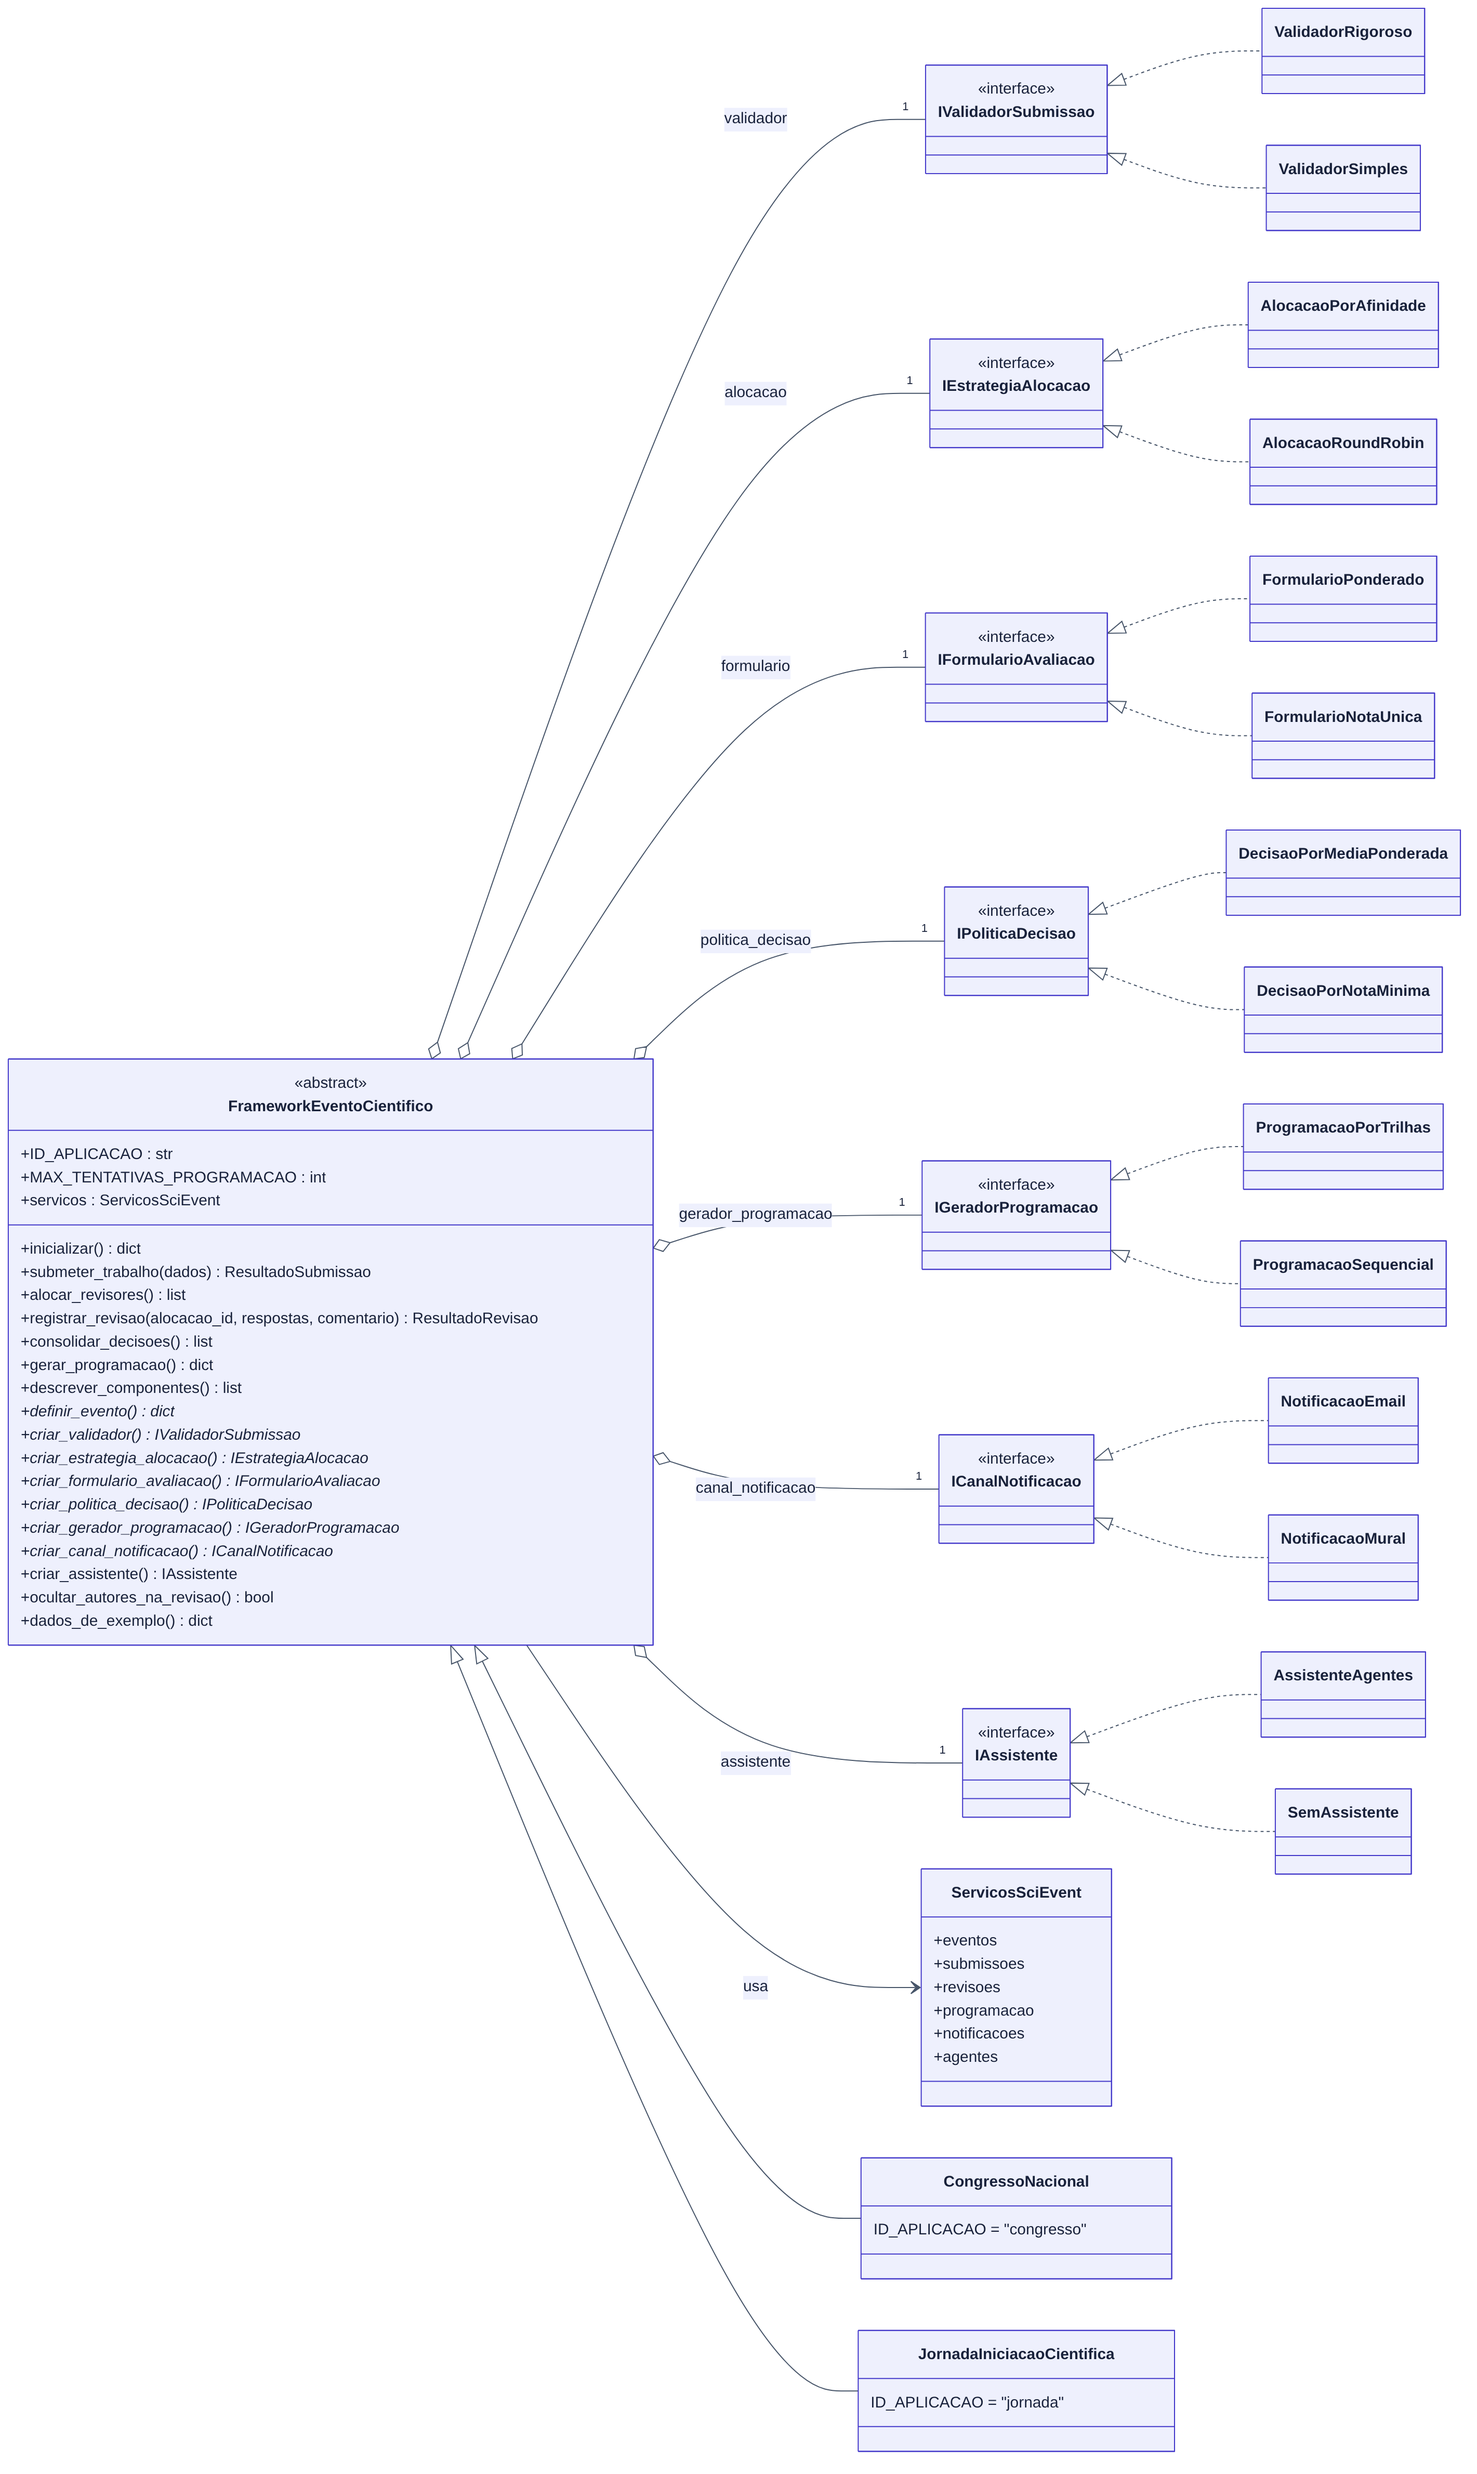
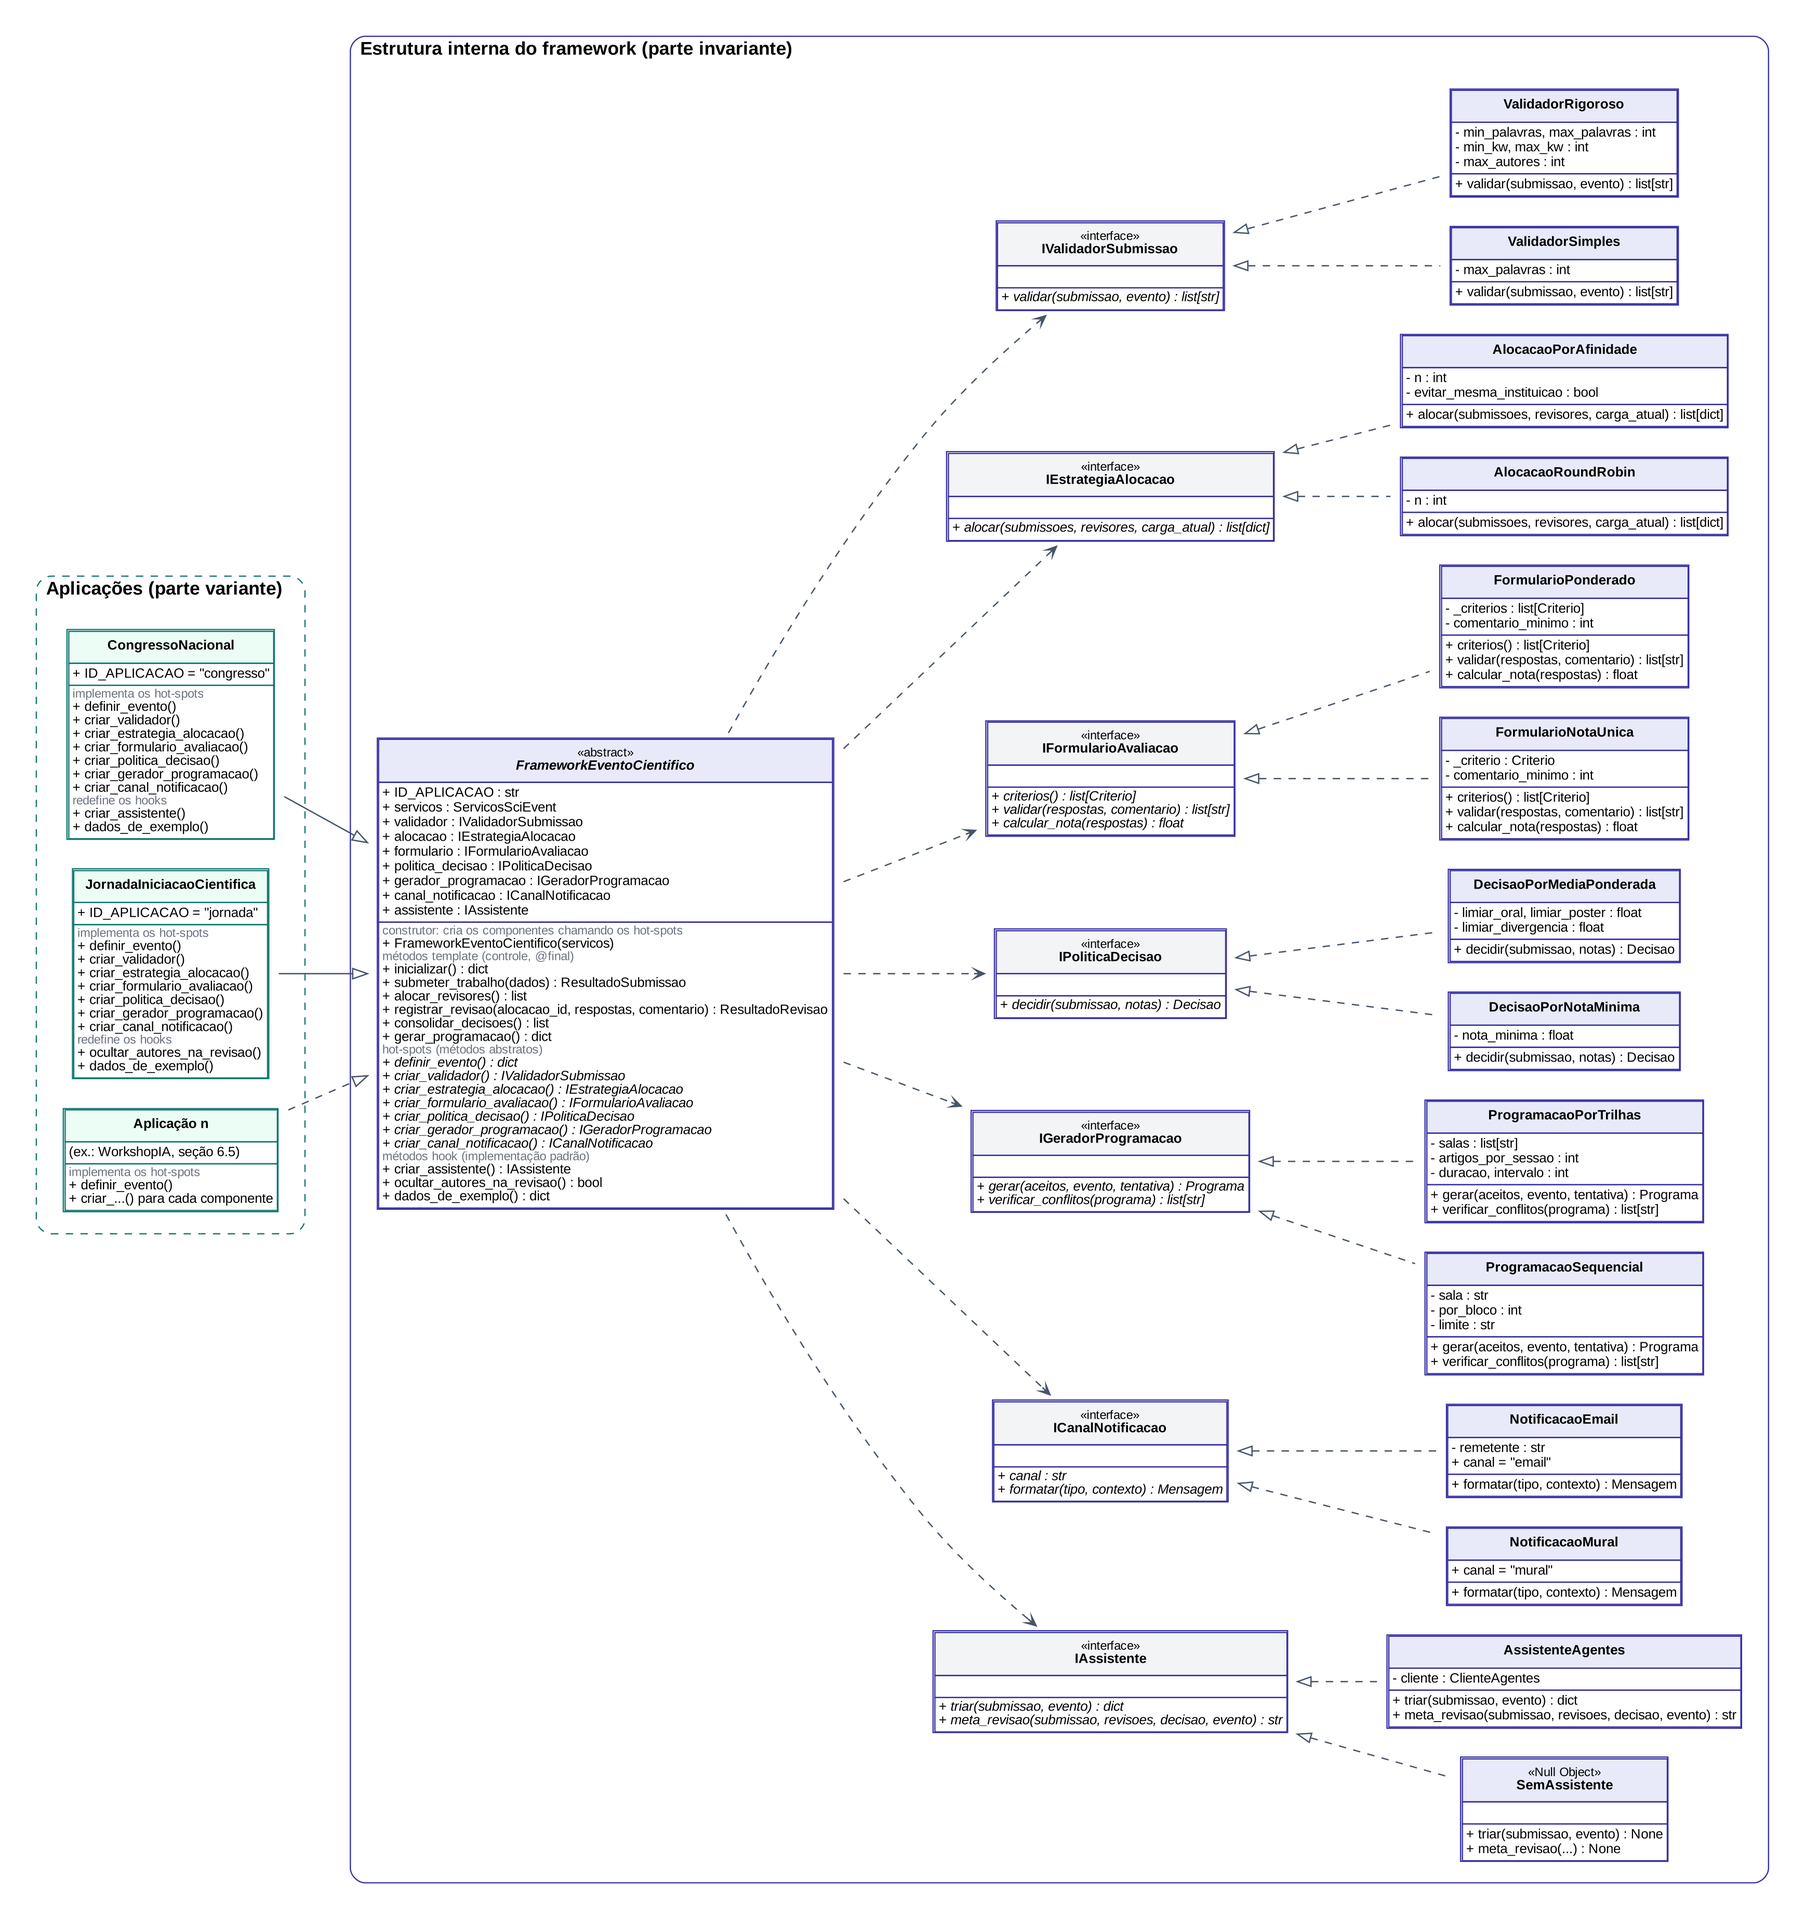
.

diff --git a/docs/diagramas/gerar_diagrama_01.py b/docs/diagramas/gerar_diagrama_01.py
@@ -1,0 +1,212 @@
+"""
+Gera o diagrama de classes do framework com os componentes (Figura 1 do relatório).
+
+Segue o formato da figura 12 do artigo "Framework para Pagamentos na Web":
+a classe do framework guarda um atributo para cada componente, tipado pela
+interface; setas tracejadas ligam o framework às interfaces; cada componente
+realiza (implementa) a sua interface. Como na figura 14 do mesmo artigo, a
+estrutura interna do framework e as aplicações aparecem em molduras separadas.
+
+Uso:  python docs/diagramas/gerar_diagrama_01.py
+Gera: docs/diagramas/01-framework-componentes.dot
+      docs/img/diagrama-01-framework-componentes.png   (requer Graphviz)
+"""
+import html
+import subprocess
+from pathlib import Path
+
+PASTA = Path(__file__).resolve().parent
+DOT = PASTA / "01-framework-componentes.dot"
+PNG = PASTA.parent / "img" / "diagrama-01-framework-componentes.png"
+
+COR_BORDA = "#3730a3"
+COR_TITULO = "#e8eaf9"
+COR_INTERFACE = "#f3f4f6"
+COR_APP = "#ecfdf5"
+COR_BORDA_APP = "#0f766e"
+
+
+def _linhas(itens, italico=False):
+    if not itens:
+        return " "
+    partes = []
+    for item in itens:
+        texto = html.escape(item)
+        partes.append(f"<I>{texto}</I>" if italico else texto)
+    return '<BR ALIGN="LEFT"/>'.join(partes) + '<BR ALIGN="LEFT"/>'
+
+
+def classe(nome, estereotipo=None, atributos=(), grupos=(), titulo_cor=COR_TITULO, borda=COR_BORDA,
+           nome_italico=False):
+    """grupos: [(rótulo do grupo ou None, [métodos], itálico?)]"""
+    nome_html = f"<I>{html.escape(nome)}</I>" if nome_italico else html.escape(nome)
+    cabecalho = (f'<FONT POINT-SIZE="10">«{html.escape(estereotipo)}»</FONT><BR/>' if estereotipo else "")
+    linhas = [f'<TR><TD BGCOLOR="{titulo_cor}" CELLPADDING="6">{cabecalho}<B>{nome_html}</B></TD></TR>']
+    linhas.append(f'<TR><TD ALIGN="LEFT" BALIGN="LEFT">{_linhas(atributos)}</TD></TR>')
+    metodos = []
+    for rotulo, itens, italico in grupos:
+        if rotulo:
+            metodos.append(f'<FONT POINT-SIZE="10" COLOR="#6b7280">{html.escape(rotulo)}</FONT><BR ALIGN="LEFT"/>')
+        metodos.append(_linhas(itens, italico))
+    linhas.append(f'<TR><TD ALIGN="LEFT" BALIGN="LEFT">{"".join(metodos) or " "}</TD></TR>')
+    return (f'<<TABLE BORDER="1" CELLBORDER="1" CELLSPACING="0" COLOR="{borda}">'
+            + "".join(linhas) + "</TABLE>>")
+
+
+FRAMEWORK = classe(
+    "FrameworkEventoCientifico", "abstract", nome_italico=True,
+    atributos=[
+        "+ ID_APLICACAO : str",
+        "+ servicos : ServicosSciEvent",
+        "+ validador : IValidadorSubmissao",
+        "+ alocacao : IEstrategiaAlocacao",
+        "+ formulario : IFormularioAvaliacao",
+        "+ politica_decisao : IPoliticaDecisao",
+        "+ gerador_programacao : IGeradorProgramacao",
+        "+ canal_notificacao : ICanalNotificacao",
+        "+ assistente : IAssistente",
+    ],
+    grupos=[
+        ("construtor: cria os componentes chamando os hot-spots", [
+            "+ FrameworkEventoCientifico(servicos)",
+        ], False),
+        ("métodos template (controle, @final)", [
+            "+ inicializar() : dict",
+            "+ submeter_trabalho(dados) : ResultadoSubmissao",
+            "+ alocar_revisores() : list",
+            "+ registrar_revisao(alocacao_id, respostas, comentario) : ResultadoRevisao",
+            "+ consolidar_decisoes() : list",
+            "+ gerar_programacao() : dict",
+        ], False),
+        ("hot-spots (métodos abstratos)", [
+            "+ definir_evento() : dict",
+            "+ criar_validador() : IValidadorSubmissao",
+            "+ criar_estrategia_alocacao() : IEstrategiaAlocacao",
+            "+ criar_formulario_avaliacao() : IFormularioAvaliacao",
+            "+ criar_politica_decisao() : IPoliticaDecisao",
+            "+ criar_gerador_programacao() : IGeradorProgramacao",
+            "+ criar_canal_notificacao() : ICanalNotificacao",
+        ], True),
+        ("métodos hook (implementação padrão)", [
+            "+ criar_assistente() : IAssistente",
+            "+ ocultar_autores_na_revisao() : bool",
+            "+ dados_de_exemplo() : dict",
+        ], False),
+    ],
+)
+
+# interface -> (métodos, [(componente, atributos, métodos, estereótipo)])
+COMPONENTES = {
+    "IValidadorSubmissao": (
+        ["+ validar(submissao, evento) : list[str]"],
+        [("ValidadorRigoroso", ["- min_palavras, max_palavras : int", "- min_kw, max_kw : int",
+                                "- max_autores : int"], ["+ validar(submissao, evento) : list[str]"], None),
+         ("ValidadorSimples", ["- max_palavras : int"], ["+ validar(submissao, evento) : list[str]"], None)],
+    ),
+    "IEstrategiaAlocacao": (
+        ["+ alocar(submissoes, revisores, carga_atual) : list[dict]"],
+        [("AlocacaoPorAfinidade", ["- n : int", "- evitar_mesma_instituicao : bool"],
+          ["+ alocar(submissoes, revisores, carga_atual) : list[dict]"], None),
+         ("AlocacaoRoundRobin", ["- n : int"], ["+ alocar(submissoes, revisores, carga_atual) : list[dict]"], None)],
+    ),
+    "IFormularioAvaliacao": (
+        ["+ criterios() : list[Criterio]", "+ validar(respostas, comentario) : list[str]",
+         "+ calcular_nota(respostas) : float"],
+        [("FormularioPonderado", ["- _criterios : list[Criterio]", "- comentario_minimo : int"],
+          ["+ criterios() : list[Criterio]", "+ validar(respostas, comentario) : list[str]",
+           "+ calcular_nota(respostas) : float"], None),
+         ("FormularioNotaUnica", ["- _criterio : Criterio", "- comentario_minimo : int"],
+          ["+ criterios() : list[Criterio]", "+ validar(respostas, comentario) : list[str]",
+           "+ calcular_nota(respostas) : float"], None)],
+    ),
+    "IPoliticaDecisao": (
+        ["+ decidir(submissao, notas) : Decisao"],
+        [("DecisaoPorMediaPonderada", ["- limiar_oral, limiar_poster : float", "- limiar_divergencia : float"],
+          ["+ decidir(submissao, notas) : Decisao"], None),
+         ("DecisaoPorNotaMinima", ["- nota_minima : float"], ["+ decidir(submissao, notas) : Decisao"], None)],
+    ),
+    "IGeradorProgramacao": (
+        ["+ gerar(aceitos, evento, tentativa) : Programa", "+ verificar_conflitos(programa) : list[str]"],
+        [("ProgramacaoPorTrilhas", ["- salas : list[str]", "- artigos_por_sessao : int",
+                                    "- duracao, intervalo : int"],
+          ["+ gerar(aceitos, evento, tentativa) : Programa", "+ verificar_conflitos(programa) : list[str]"], None),
+         ("ProgramacaoSequencial", ["- sala : str", "- por_bloco : int", "- limite : str"],
+          ["+ gerar(aceitos, evento, tentativa) : Programa", "+ verificar_conflitos(programa) : list[str]"], None)],
+    ),
+    "ICanalNotificacao": (
+        ["+ canal : str", "+ formatar(tipo, contexto) : Mensagem"],
+        [("NotificacaoEmail", ["- remetente : str", "+ canal = \"email\""],
+          ["+ formatar(tipo, contexto) : Mensagem"], None),
+         ("NotificacaoMural", ["+ canal = \"mural\""], ["+ formatar(tipo, contexto) : Mensagem"], None)],
+    ),
+    "IAssistente": (
+        ["+ triar(submissao, evento) : dict", "+ meta_revisao(submissao, revisoes, decisao, evento) : str"],
+        [("AssistenteAgentes", ["- cliente : ClienteAgentes"],
+          ["+ triar(submissao, evento) : dict", "+ meta_revisao(submissao, revisoes, decisao, evento) : str"], None),
+         ("SemAssistente", [], ["+ triar(submissao, evento) : None", "+ meta_revisao(...) : None"], "Null Object")],
+    ),
+}
+
+APLICACOES = [
+    ("CongressoNacional", ["+ ID_APLICACAO = \"congresso\""],
+     [("implementa os hot-spots", ["+ definir_evento()", "+ criar_validador()", "+ criar_estrategia_alocacao()",
+                                    "+ criar_formulario_avaliacao()", "+ criar_politica_decisao()",
+                                    "+ criar_gerador_programacao()", "+ criar_canal_notificacao()"], False),
+      ("redefine os hooks", ["+ criar_assistente()", "+ dados_de_exemplo()"], False)]),
+    ("JornadaIniciacaoCientifica", ["+ ID_APLICACAO = \"jornada\""],
+     [("implementa os hot-spots", ["+ definir_evento()", "+ criar_validador()", "+ criar_estrategia_alocacao()",
+                                    "+ criar_formulario_avaliacao()", "+ criar_politica_decisao()",
+                                    "+ criar_gerador_programacao()", "+ criar_canal_notificacao()"], False),
+      ("redefine os hooks", ["+ ocultar_autores_na_revisao()", "+ dados_de_exemplo()"], False)]),
+    ("Aplicação n", ["(ex.: WorkshopIA, seção 6.5)"],
+     [("implementa os hot-spots", ["+ definir_evento()", "+ criar_...() para cada componente"], False)]),
+]
+
+
+def gerar_dot() -> str:
+    linhas = [
+        "digraph Framework {",
+        '  graph [rankdir=LR, splines=true, nodesep=0.22, ranksep=0.9, fontname="Liberation Sans",'
+        ' fontsize=15, newrank=true, pad=0.3, bgcolor="white"];',
+        '  node  [shape=plaintext, fontname="Liberation Sans", fontsize=11];',
+        '  edge  [color="#475569", penwidth=1.1, arrowsize=0.8];',
+        "",
+        "  subgraph cluster_apps {",
+        '    label=<<B>Aplicações (parte variante)</B>>; labeljust=l; style="rounded,dashed";'
+        f' color="{COR_BORDA_APP}"; margin=14;',
+    ]
+    for nome, atributos, grupos in APLICACOES:
+        rotulo = classe(nome, None, atributos, grupos, titulo_cor=COR_APP, borda=COR_BORDA_APP)
+        linhas.append(f'    "{nome}" [label={rotulo}];')
+    linhas += [
+        "  }",
+        "",
+        "  subgraph cluster_framework {",
+        '    label=<<B>Estrutura interna do framework (parte invariante)</B>>; labeljust=l;'
+        f' style=rounded; color="{COR_BORDA}"; margin=14;',
+        f'    "FrameworkEventoCientifico" [label={FRAMEWORK}];',
+    ]
+    # Graphviz empilha a coluna de baixo para cima: declarar na ordem inversa
+    # deixa as interfaces de cima para baixo na ordem do fluxo do evento.
+    for interface, (metodos, comps) in reversed(list(COMPONENTES.items())):
+        rotulo = classe(interface, "interface", [], [(None, metodos, True)], titulo_cor=COR_INTERFACE)
+        linhas.append(f'    "{interface}" [label={rotulo}];')
+        for nome, atributos, metodos_c, estereotipo in reversed(comps):
+            linhas.append(f'    "{nome}" [label={classe(nome, estereotipo, atributos, [(None, metodos_c, False)])}];')
+    linhas += ["  }", ""]
+
+    for nome, _, _ in APLICACOES:
+        estilo = ', style=dashed' if nome == "Aplicação n" else ""
+        linhas.append(f'  "{nome}" -> "FrameworkEventoCientifico" [arrowhead=empty, arrowsize=1.2{estilo}];')
+    for interface, (_, comps) in reversed(list(COMPONENTES.items())):
+        linhas.append(f'  "FrameworkEventoCientifico" -> "{interface}" [style=dashed, arrowhead=vee];')
+        for nome, *_ in reversed(comps):
+            linhas.append(f'  "{interface}" -> "{nome}" [style=dashed, dir=back, arrowtail=empty, arrowsize=1.1];')
+    linhas.append("}")
+    return "\n".join(linhas) + "\n"
+
+
+if __name__ == "__main__":
+    DOT.write_text(gerar_dot(), encoding="utf-8")
+    subprocess.run(["dot", "-Tpng", "-Gdpi=170", str(DOT), "-o", str(PNG)], check=True)
+    print(f"Gerado: {DOT.name} e {PNG.name}")

diff --git a/README.md b/README.md
@@ -59,7 +59,7 @@ Cada microsserviço é um processo Flask independente, com seu próprio banco (*
 ### 2. Obter o código
 
 ```bash
-git clone https://github.com/<seu-usuario>/scievent-framework.git
+git clone https://github.com/arthurvfr/scievent-framework.git
 cd scievent-framework
 ```
 
@@ -159,7 +159,11 @@ O topo de toda tela mostra **"Microsserviços usados nesta tela"**, com os servi
 
 ## O framework: template methods e hotspots
 
-A classe `FrameworkEventoCientifico` (`scievent/framework.py`) é o controle do framework.
+A classe `FrameworkEventoCientifico` (`scievent/framework.py`) é o controle do framework: é a **parte invariante**, e cada aplicação (subclasse) fornece a **parte variante** implementando os hot-spots. Há **inversão de controle**: quem chama o código da aplicação é o framework, dentro dos métodos template.
+
+![Diagrama de classes do framework com os componentes](docs/img/diagrama-01-framework-componentes.png)
+
+O diagrama acima segue o formato da figura 12 do artigo *Framework para Pagamentos na Web*: a classe do framework guarda um atributo para cada componente, tipado pela interface, e cada componente implementa a sua interface. Ele é gerado por `python docs/diagramas/gerar_diagrama_01.py` (requer Graphviz); os demais diagramas estão em Mermaid na mesma pasta.
 
 **Template methods (frozen spots — fluxo fixo, não sobrescrever):**
 
